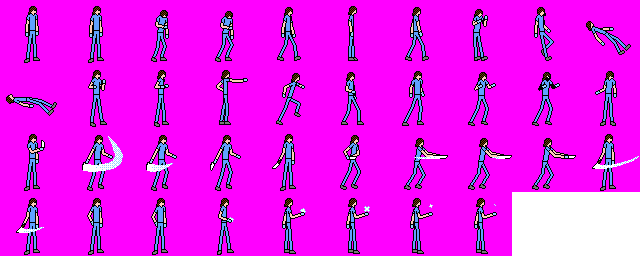
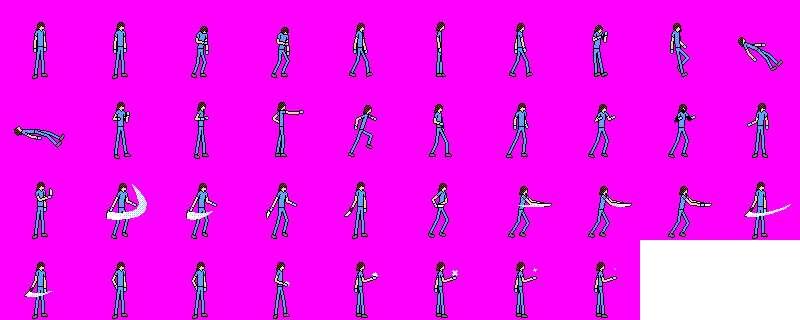
Increased the size of Mary's bounding box.

diff --git a/src/combat/combatants/party/mary.cpp b/src/combat/combatants/party/mary.cpp
@@ -61,8 +61,8 @@ Mary::Mary(Player *plr):
   buffer_lifetime = buffer_lifetime * quotient;
   PLOGD << "Buffer Lifetime: " << buffer_lifetime;
 
-  bounding_box.scale = {64, 64};
-  bounding_box.offset = {-32, -64};
+  bounding_box.scale = {80, 80};
+  bounding_box.offset = {-40, -80};
   hurtbox.scale = {16, 56};
   hurtbox.offset = {-8, -58};
   rectExCorrection(bounding_box, hurtbox);
